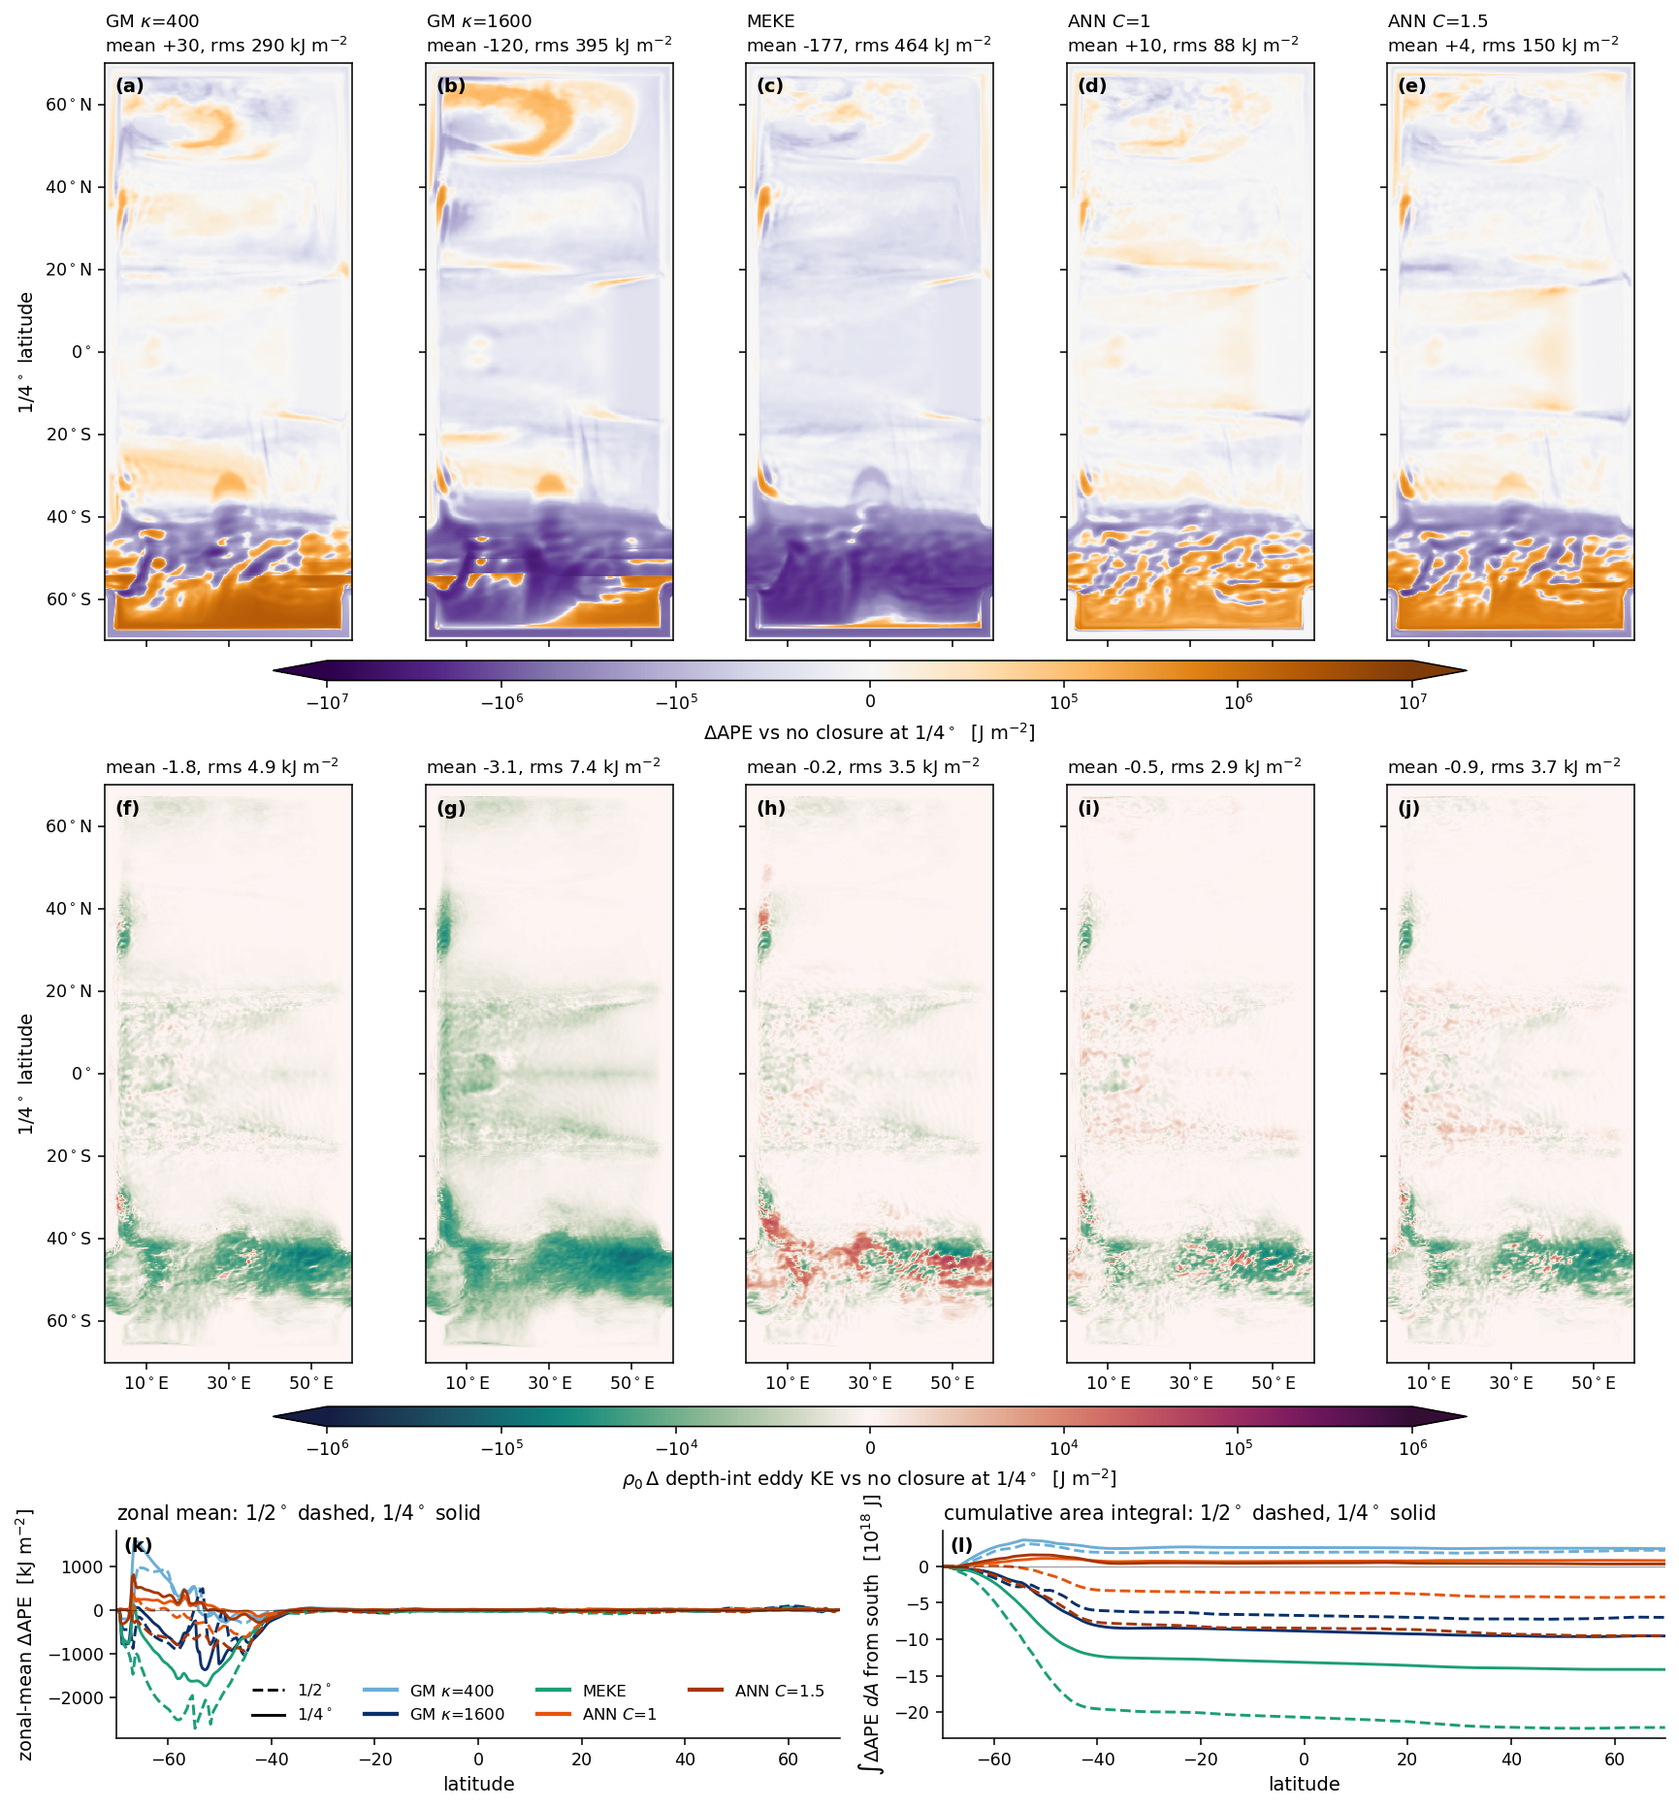
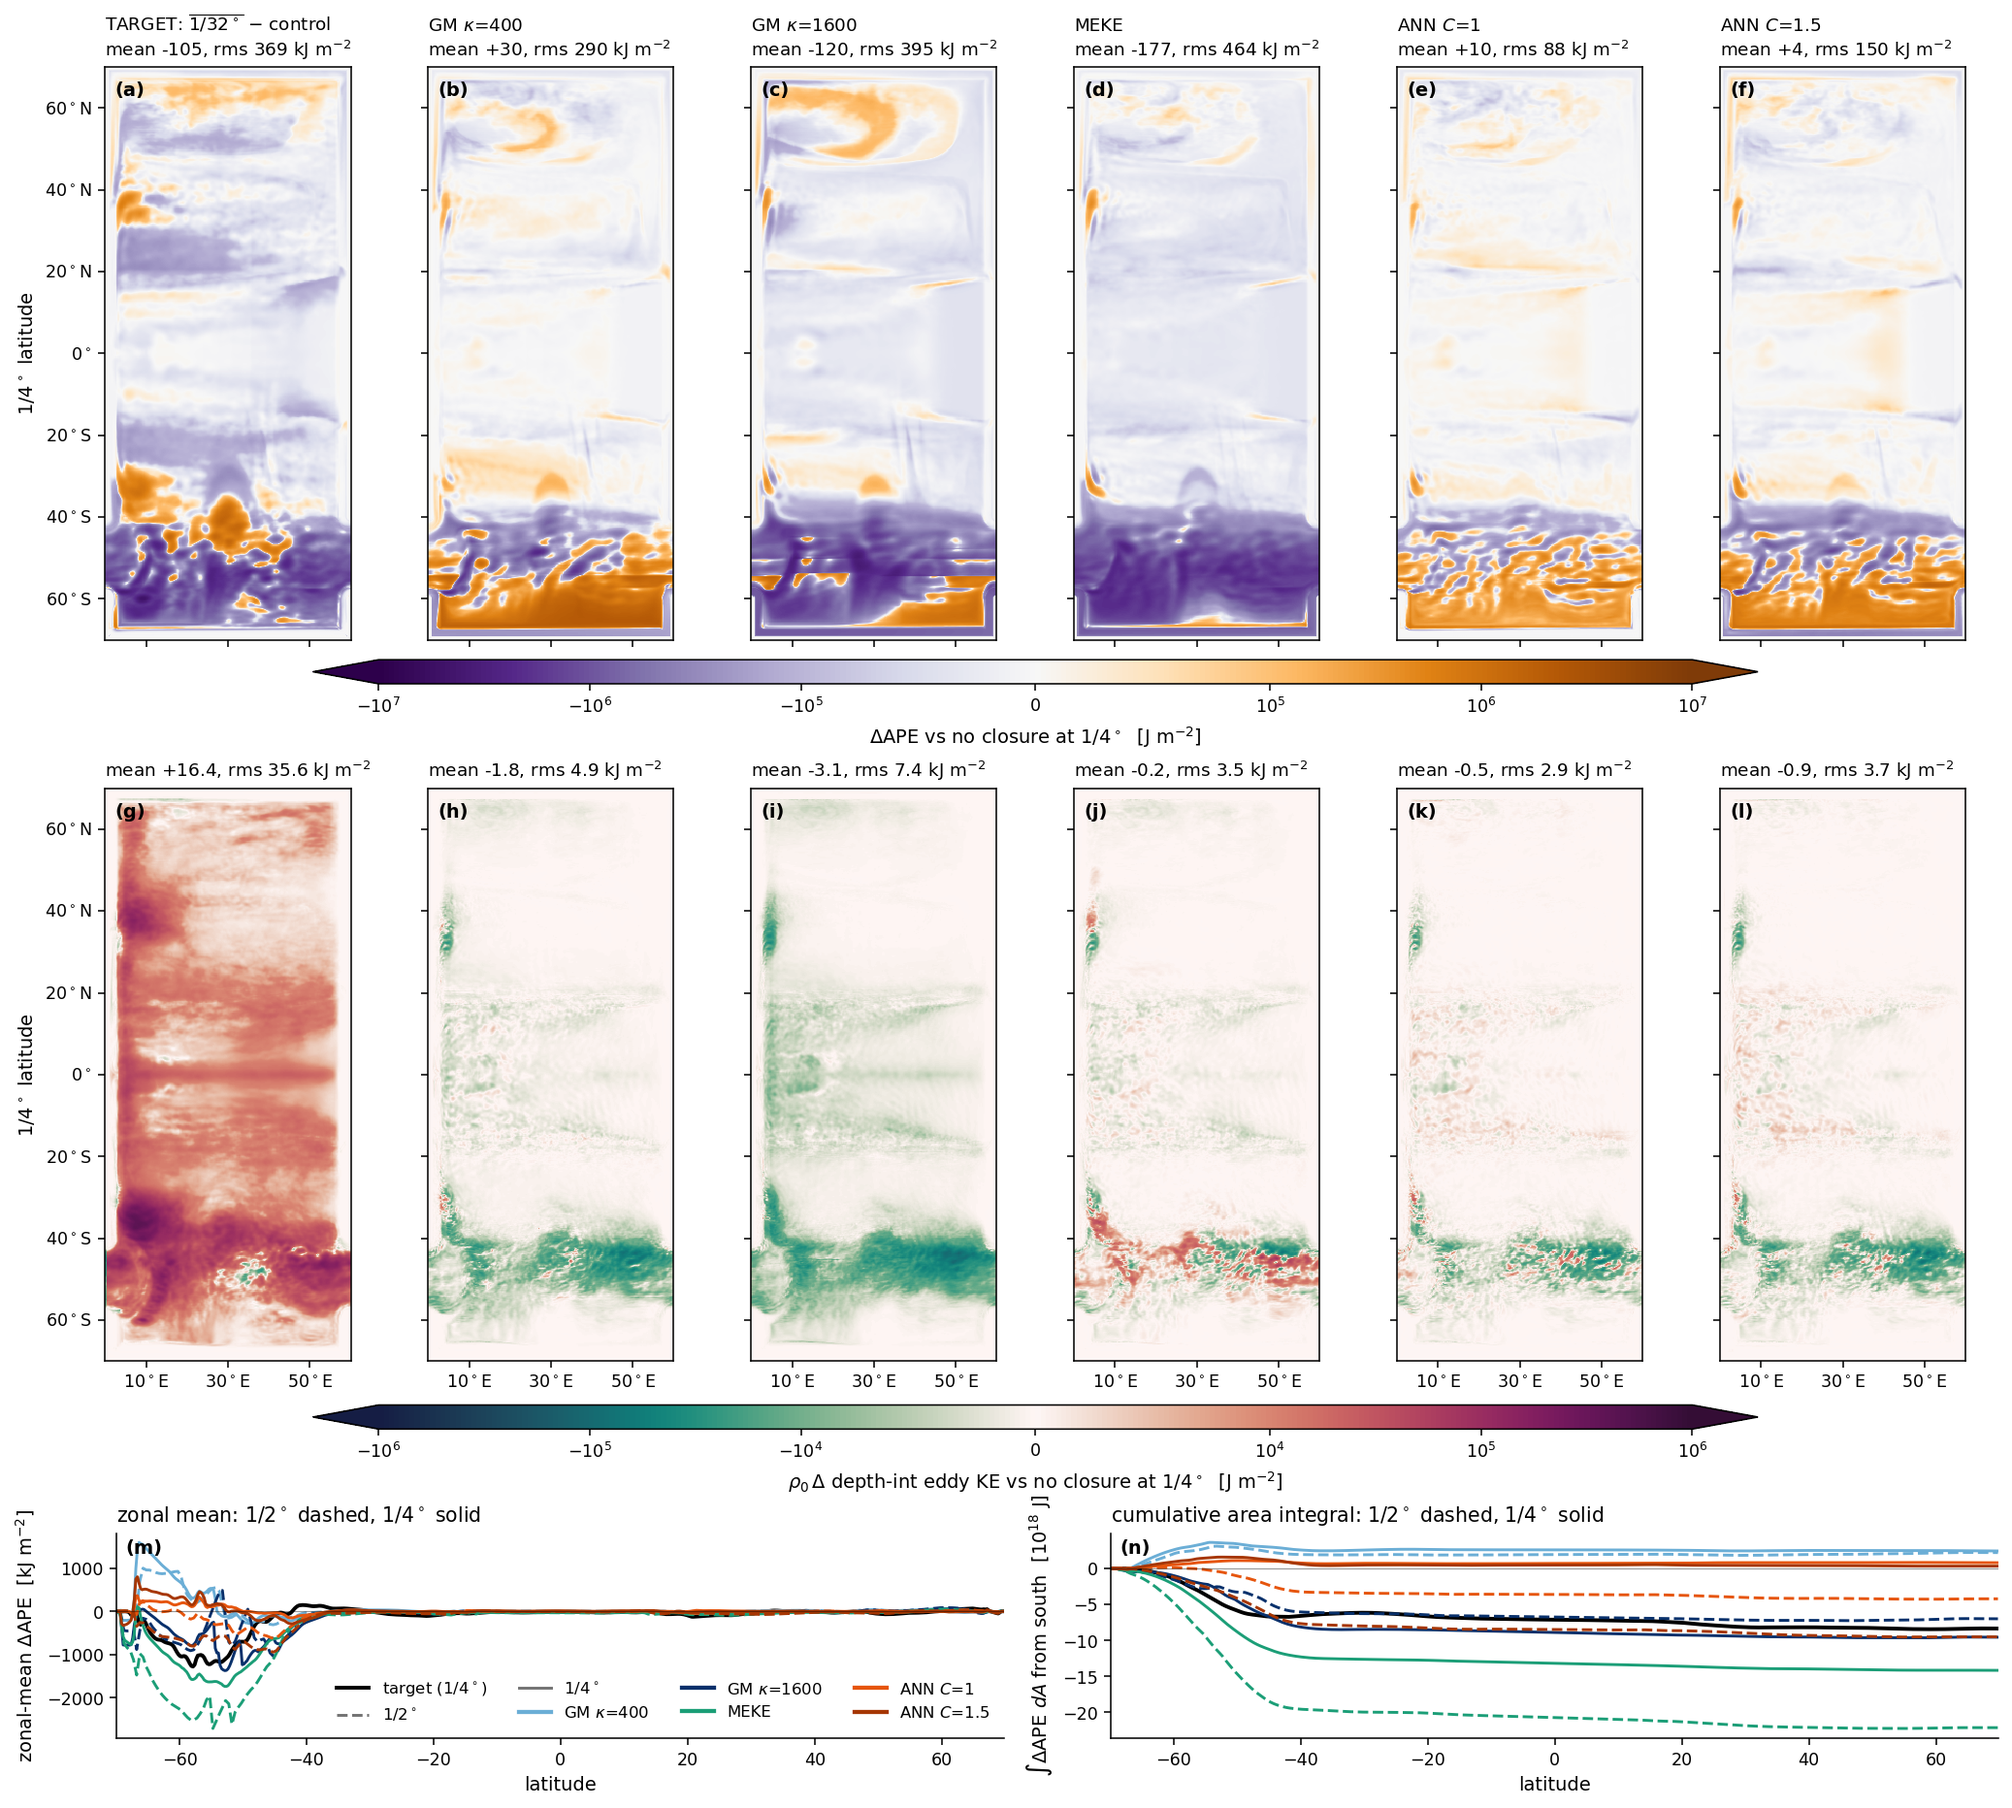
nw2_ape_redistribution: add TARGET column from Pavel's 1/4-deg reference bundle (energy_ref/control); closure-vs-target stats
Claude-Session: https://claude.ai/code/session_013YxY5kSiCrM21jUwV4Z6dE

Changed region(s): [[0.0, 0.0, 0.9983, 0.9957], [0.7487, 0.9646, 0.7799, 0.9957], [0.6863, 0.4979, 0.7175, 0.529]]

diff --git a/src/training-on-CM2.6/scripts/nw2_ape_redistribution.py b/src/training-on-CM2.6/scripts/nw2_ape_redistribution.py
@@ -8,9 +8,13 @@ the map rms stays large. This figure makes that point directly:
               complementary story: where each closure kills or spares the resolved eddies.
 Both map rows use the FIXED colour scales of Perezhogin's Figure-2-and-S1.ipynb (NW2 energy
 panels): dAPE PuOr_r SymLog(linthresh 1e5, +-1e7 J/m2); dEKE curl SymLog(linthresh 1e4,
-+-1e6 J/m2) -- directly comparable with the published momentum-paper maps. Note his dEKE is
-(reference - control), i.e. what the MISSING eddies carry; ours is (closure - control), so our
-EKE row sitting mostly inside the linear zone is itself the message;
++-1e6 J/m2) -- directly comparable with the published momentum-paper maps.
+
+TARGET column (added 2026-08-10): Pavel sent his Figure-2 reference bundle regridded to 1/4 deg
+(_truth/energy_{ref,control}.nc on the R4 scratch tree; use rho0*(ref.X - control.X), rho0=1035).
+ref = coarsened 1/32 deg truth, control = his unparameterized 1/4 deg run. His control agrees with
+our bare run (APE pattern r=0.9996, amplitude within ~4%; EKE r=0.96, ~15% -- sampling/definition
+differences), so the target (vs HIS control) is comparable with our responses (vs OUR bare);
   bottom      (f) zonal-mean dAPE vs latitude, 1/4 deg solid vs 1/2 deg dashed, and (g) the
               south-to-north cumulative area integral of dAPE in Joules: a curve that wanders and
               returns to zero is pure rearrangement, an endpoint far from zero is net change. The
@@ -50,9 +54,15 @@ E0 = eke_map(B4, "bare", integrated=True)
 eres4 = {r: RHO0 * (eke_map(B4, r, integrated=True) - E0) for r, _ in ORDER}
 print("--- 1/4 EKE loaded", flush=True)
 
+ctl = xr.open_dataset(f"{B4}/_truth/energy_control.nc", decode_times=False)
+ref = xr.open_dataset(f"{B4}/_truth/energy_ref.nc", decode_times=False)
+tgt_a = RHO0 * (ref["APE"].values - ctl["APE"].values)
+tgt_e = RHO0 * (ref["EKE"].values - ctl["EKE"].values)
+ctl.close(); ref.close()
+
 mpl.rcParams.update({"font.size": 10, "axes.titlesize": 10.5, "xtick.labelsize": 9,
                      "ytick.labelsize": 9, "legend.fontsize": 8.5})
-n = len(ORDER)
+n = len(ORDER) + 1                                      # TARGET column + closures
 fig = plt.figure(figsize=(2.45 * n, 13.2), constrained_layout=True)
 gs = fig.add_gridspec(3, n, height_ratios=[1.9, 1.9, 1.0])
 lat4, lon4, res4 = data["1/4$^\\circ$"]
@@ -76,17 +86,19 @@ def wstats(f):
 # Perezhogin Figure-2-and-S1.ipynb scales, verbatim
 norm_a = mpl.colors.SymLogNorm(linthresh=1e5, vmin=-1e7, vmax=1e7, base=10)
 norm_e = mpl.colors.SymLogNorm(linthresh=1e4, vmin=-1e6, vmax=1e6, base=10)
+cols = [("TARGET: $\\overline{1/32^\\circ}$ $-$ control", tgt_a, tgt_e)] + \
+       [(rlab, res4[r], eres4[r]) for r, rlab in ORDER]
 axA, axE = [], []
-for j, (r, rlab) in enumerate(ORDER):
+for j, (rlab, fa, fe) in enumerate(cols):
     a = fig.add_subplot(gs[0, j]); axA.append(a)
-    imA = map_panel(a, res4[r], norm_a, plt.cm.PuOr_r, j == 0, False)
-    m, rms = wstats(res4[r])
+    imA = map_panel(a, fa, norm_a, plt.cm.PuOr_r, j == 0, False)
+    m, rms = wstats(fa)
     a.set_title(f"{rlab}\nmean {m/1e3:+.0f}, rms {rms/1e3:.0f} kJ m$^{{-2}}$", loc="left", fontsize=9.5)
     a.text(0.04, 0.975, f"({string.ascii_lowercase[j]})", transform=a.transAxes, va="top",
            fontsize=10, fontweight="bold")
     a = fig.add_subplot(gs[1, j]); axE.append(a)
-    imE = map_panel(a, eres4[r], norm_e, cmocean.cm.curl, j == 0, True)
-    m, rms = wstats(eres4[r])
+    imE = map_panel(a, fe, norm_e, cmocean.cm.curl, j == 0, True)
+    m, rms = wstats(fe)
     a.set_title(f"mean {m/1e3:+.1f}, rms {rms/1e3:.1f} kJ m$^{{-2}}$", loc="left", fontsize=9.5)
     a.text(0.04, 0.975, f"({string.ascii_lowercase[n+j]})", transform=a.transAxes, va="top",
            fontsize=10, fontweight="bold")
@@ -107,6 +119,8 @@ def cumint(lat, lon, f):
 gsb = gs[2, :].subgridspec(1, 2)
 az = fig.add_subplot(gsb[0]); ac = fig.add_subplot(gsb[1])
 from matplotlib.lines import Line2D
+az.plot(lat4, np.nanmean(tgt_a, axis=1) / 1e3, "-", color="k", lw=2.0)
+ac.plot(lat4, cumint(lat4, lon4, tgt_a) / 1e18, "-", color="k", lw=2.0)
 for r, rlab in ORDER:
     for (lab, _), ls in zip(RUNGS, ["--", "-"]):
         lat, lon, res = data[lab]
@@ -122,9 +136,10 @@ for a, yl, ttl in [(az, "zonal-mean $\\Delta$APE  [kJ m$^{-2}$]", "zonal mean"),
 for k, a in enumerate([az, ac]):
     a.text(0.01, 0.97, f"({string.ascii_lowercase[2*n+k]})", transform=a.transAxes, va="top",
            fontsize=10, fontweight="bold")
-handles = [Line2D([], [], color="k", ls="--", lw=1.5), Line2D([], [], color="k", ls="-", lw=1.5)] + \
+handles = [Line2D([], [], color="k", ls="-", lw=2.0),
+           Line2D([], [], color="0.45", ls="--", lw=1.5), Line2D([], [], color="0.45", ls="-", lw=1.5)] + \
           [Line2D([], [], color=COL[r], lw=2.2) for r, _ in ORDER]
-labels = ["1/2$^\\circ$", "1/4$^\\circ$"] + [rlab for _, rlab in ORDER]
+labels = ["target (1/4$^\\circ$)", "1/2$^\\circ$", "1/4$^\\circ$"] + [rlab for _, rlab in ORDER]
 az.legend(handles, labels, frameon=False, ncol=4, fontsize=8.5, loc="lower right")
 
 png = "/home/db194/ANN-momentum-buoyancy-mesoscale/src/training-on-CM2.6/scripts/nw2_ape_redistribution.png"
@@ -141,3 +156,12 @@ for r, _ in ORDER:
         rms = np.sqrt(np.nansum(res[r] ** 2 * w) / np.nansum(w * np.isfinite(res[r])))
         row += f"{m/1e3:>13.1f}{rms/1e3:>12.1f}"
     print(f"{r:<10}{row}")
+
+def fit(x, y):
+    m = np.isfinite(x) & np.isfinite(y)
+    return np.polyfit(x[m], y[m], 1)[0], np.corrcoef(x[m], y[m])[0, 1]
+print(f"\n1/4-deg maps vs Pavel's target:  {'dAPE slope':>11}{'r':>7}{'dEKE slope':>12}{'r':>7}")
+for r, rlab in ORDER:
+    sa, ra = fit(tgt_a.ravel(), res4[r].ravel())
+    se, re_ = fit(tgt_e.ravel(), eres4[r].ravel())
+    print(f"  {r:<12} {sa:>24.2f}{ra:>7.2f}{se:>12.2f}{re_:>7.2f}")

diff --git a/PLAN.md b/PLAN.md
@@ -334,3 +334,4 @@ Using the M1 inventory, reduce the analysis sprawl to a canonical story.
 - **2026-08-07 (cont 8) — Applied-release result ADDED TO THE PAPER** (paper commit d4f31c1). §4.1 gains two paragraphs + `fig:channel_applied_release` (5 panels: truth-diagnosed, ANN-offline-predicted, then ANN/GM/MEKE online GMwork, one colour scale) placed after the energetics paragraphs, before the retuning paragraph. Claims in prose: (i) offline→online loop closed — the ANN acts where the truth-diagnosed deployed release says the missing eddies would (r=0.72, 0.78 of integrated rate, shortfall attributed to mass limits + attractor + accounting, all stated); (ii) mechanism for the eddy-energy results — diffusive closures do ~2× the ANN's work (90/103 vs 52 GW at ¼°); (iii) scale-awareness in energy form — ANN total ~constant across the ladder (52/49/51 GW), "work set by the flow, not the grid". Discussion's co-design paragraph upgraded with the measured remit (12% at ¼°, 43% at 1°). Deliberately NOT in prose (in the CC note): GM/MEKE remit sums (not comparable — unbounded κs requests near outcrops). Task A + its paper integration now fully closed; remaining from the online-metrics plan: deliverable (b) σ2-overturning comparison (partially covered by existing §4.1 figures — check before making new ones).
 - **2026-08-07 (cont 9) — GM-column + instantaneous-ladder results ADDED TO THE PAPER** (paper commit bf3f7c9; Dhruv-approved). Three insertions: (1) §3.3 amplitude paragraph — channel cross-check sentence (deployed ratio 1.15 at ¼° on an independent simulation; provenance CC extended; deliberately NO Δ-axis placement claim, Δ/R_d differs between simulations at equal nominal Δ); (2) §4.1 new paragraph after the applied-release passage — the fitted-GM instantaneous ladder (κ*=250 explains <1% of flux variance; GM 0.09→0.37→0.78 vs ANN 0.93–0.97; "right on average, wrong event by event"; read as the mechanism behind fig:channel_ape_eke's EKE contrast) with full-caution CC (quasi-forced GM total not quoted as skill; MEKE has no offline column by design; zonal-mean sections don't discriminate); (3) §4.1 retuning paragraph — "the tunings are not mutually consistent": κ*=250 is 6× below the overturning-matching κ≈1500, ties to GM doing ~2× the ANN's work in fig:channel_applied_release. Cites balwada2025design for the rotational/along-gradient flux character.
 - **2026-08-10 — NW2 g CATCH (Dhruv's suspicion of the sharp ΔAPE jumps → full APE validation): NW2 runs with G_EARTH=10.0, not 9.8.** Dhruv flagged that the GM ΔAPE maps jump "too well aligned with a couple of latitudes" and asked for a check against Pavel's code. Outcome, three parts: **(1) The jumps are REAL** — the pinning term cancels exactly in run differences (float noise); the jump rows coincide with outcrop-status changes (GM1600 has 1–2 more interfaces outcropped than bare; interface 8, reference −1050 m, sits AT the surface); and the front is grid-row sharp in the raw INSTANTANEOUS snapshot h (e₈ jumps −3→−162/−290 m in one row; the front sits ~1° further south at some longitudes, so not literally one latitude). Strong GM physically relocates the ACC outcrop front and suppresses its meanders. **(2) Pavel's Figure-3.ipynb gold check applied to NW2 caught a constant:** per-interface APE of the day-37200 R4 GM1600 snapshot vs ocean.stats APE was uniformly 0.9800 at every interface = 9.8/10 → **NW2 uses G_EARTH=10.0** (confirmed in MOM_parameter_doc.all, both rungs; channel uses 9.8, so Task A/B channel numbers unaffected). With G=10 the match is 1.0000 at every interface incl. the pinned ones — functional now validated exactly against MOM6's own accounting (`scripts/nw2_ape_vs_stats_check.py`, kept as the audit). **(3) Impact: uniform +2% on all NW2 APE maps; no qualitative change.** `nw2_common.G=10.0` (single-source paid off — the figure scripts' local G=9.8 were DEAD variables, deleted); figures regenerated (nw2_ape_response paper PDF, nw2_ape_redistribution, nw2_vs_truth); §4.2 prose survives rounding (−52.9→"−52", +9.9→"+10", rms 102→"100"); the −4.6/−10.3/−18.0e18 J triple is from ocean.stats (model's own g) and was already correct. Also this session: nw2_timeseries.py (APE/KE vs time from stats, both rungs) + nw2_ape_redistribution.py (¼° maps + zonal means + cumulative area integral; ANN curves return to ~0, GM1600 −9, MEKE −14e18 J; endpoints cross-check stats). NOTE: /home file-count quota at 99% (30k cap, ~33k-file .vscode-server is the offender) — Dhruv should prune it.
+- **2026-08-10 (cont) — Pavel sent his Figure-2 reference bundle regridded to ¼° (`_truth/energy_{ref,control}.nc` on the R4 scratch tree; ΔX = ρ0·(ref.X − control.X), ρ0=1035). TARGET column added to nw2_ape_redistribution (both map rows + line panels).** Consistency: his control ≈ our bare (APE pattern r 0.9996, amplitude within ~4%; EKE r 0.96, ~15% — sampling/definition). Target at ¼°: ΔAPE mean **−105**, rms 369 kJ/m² (resolving eddies removes net APE); ΔEKE mean **+16.4** kJ/m² (backscatter). Closure-vs-target (¼°, slope/r): **MEKE 0.92/0.76 APE** — best pattern AND amplitude, but overshoots net drain ~2× (−177 vs −105) and kills/redistributes EKE instead of adding it; **GM1600 0.54/0.51** — right net (−120), half-amplitude diluted pattern; **GM400 −0.17/−0.19** anticorrelated; **ANN −0.09/−0.36** — near-zero net (+10) where target removes −105, and pattern anticorrelated (ACC outcrop-band dipole opposes target). EKE row: ALL closures ~0 or negative vs target +16 (the backscatter deficit, now on the same grid/scales as Pavel's paper). Headline for §4.2 honesty: at ¼° NO closure gets both net and pattern right — MEKE pattern-best/net-overshooting, GM1600 net-right/pattern-diluted, ANN eddy-preserving but APE-inactive relative to target. This firms up (same-grid, Pavel's own pipeline) what nw2_vs_truth suggested at ½° with epoch caveats. The "redistribution = well-behaved" §4.2 sentence may need a target-aware qualifier — Dhruv to weigh.
